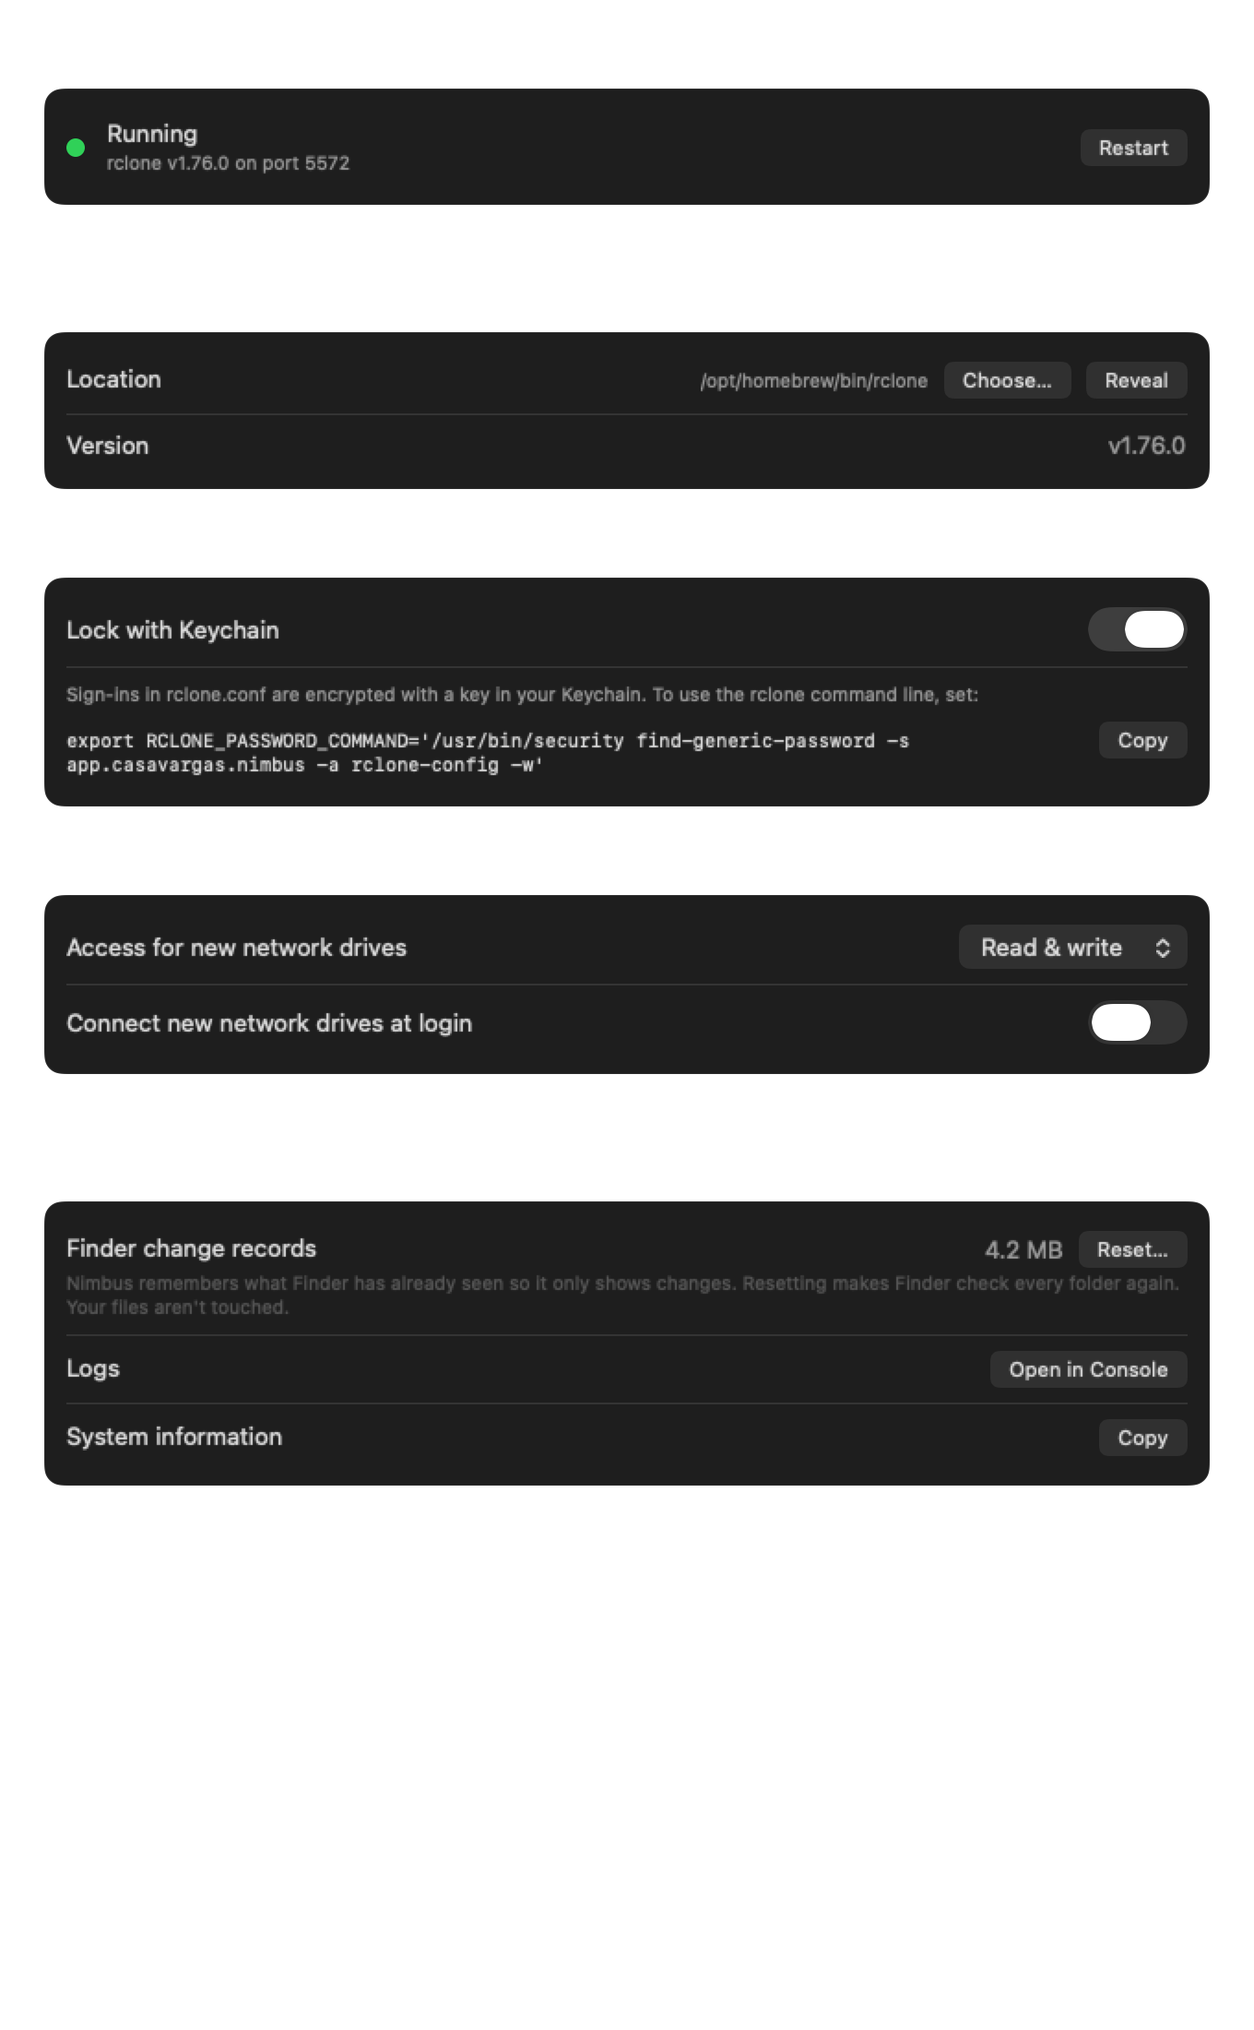
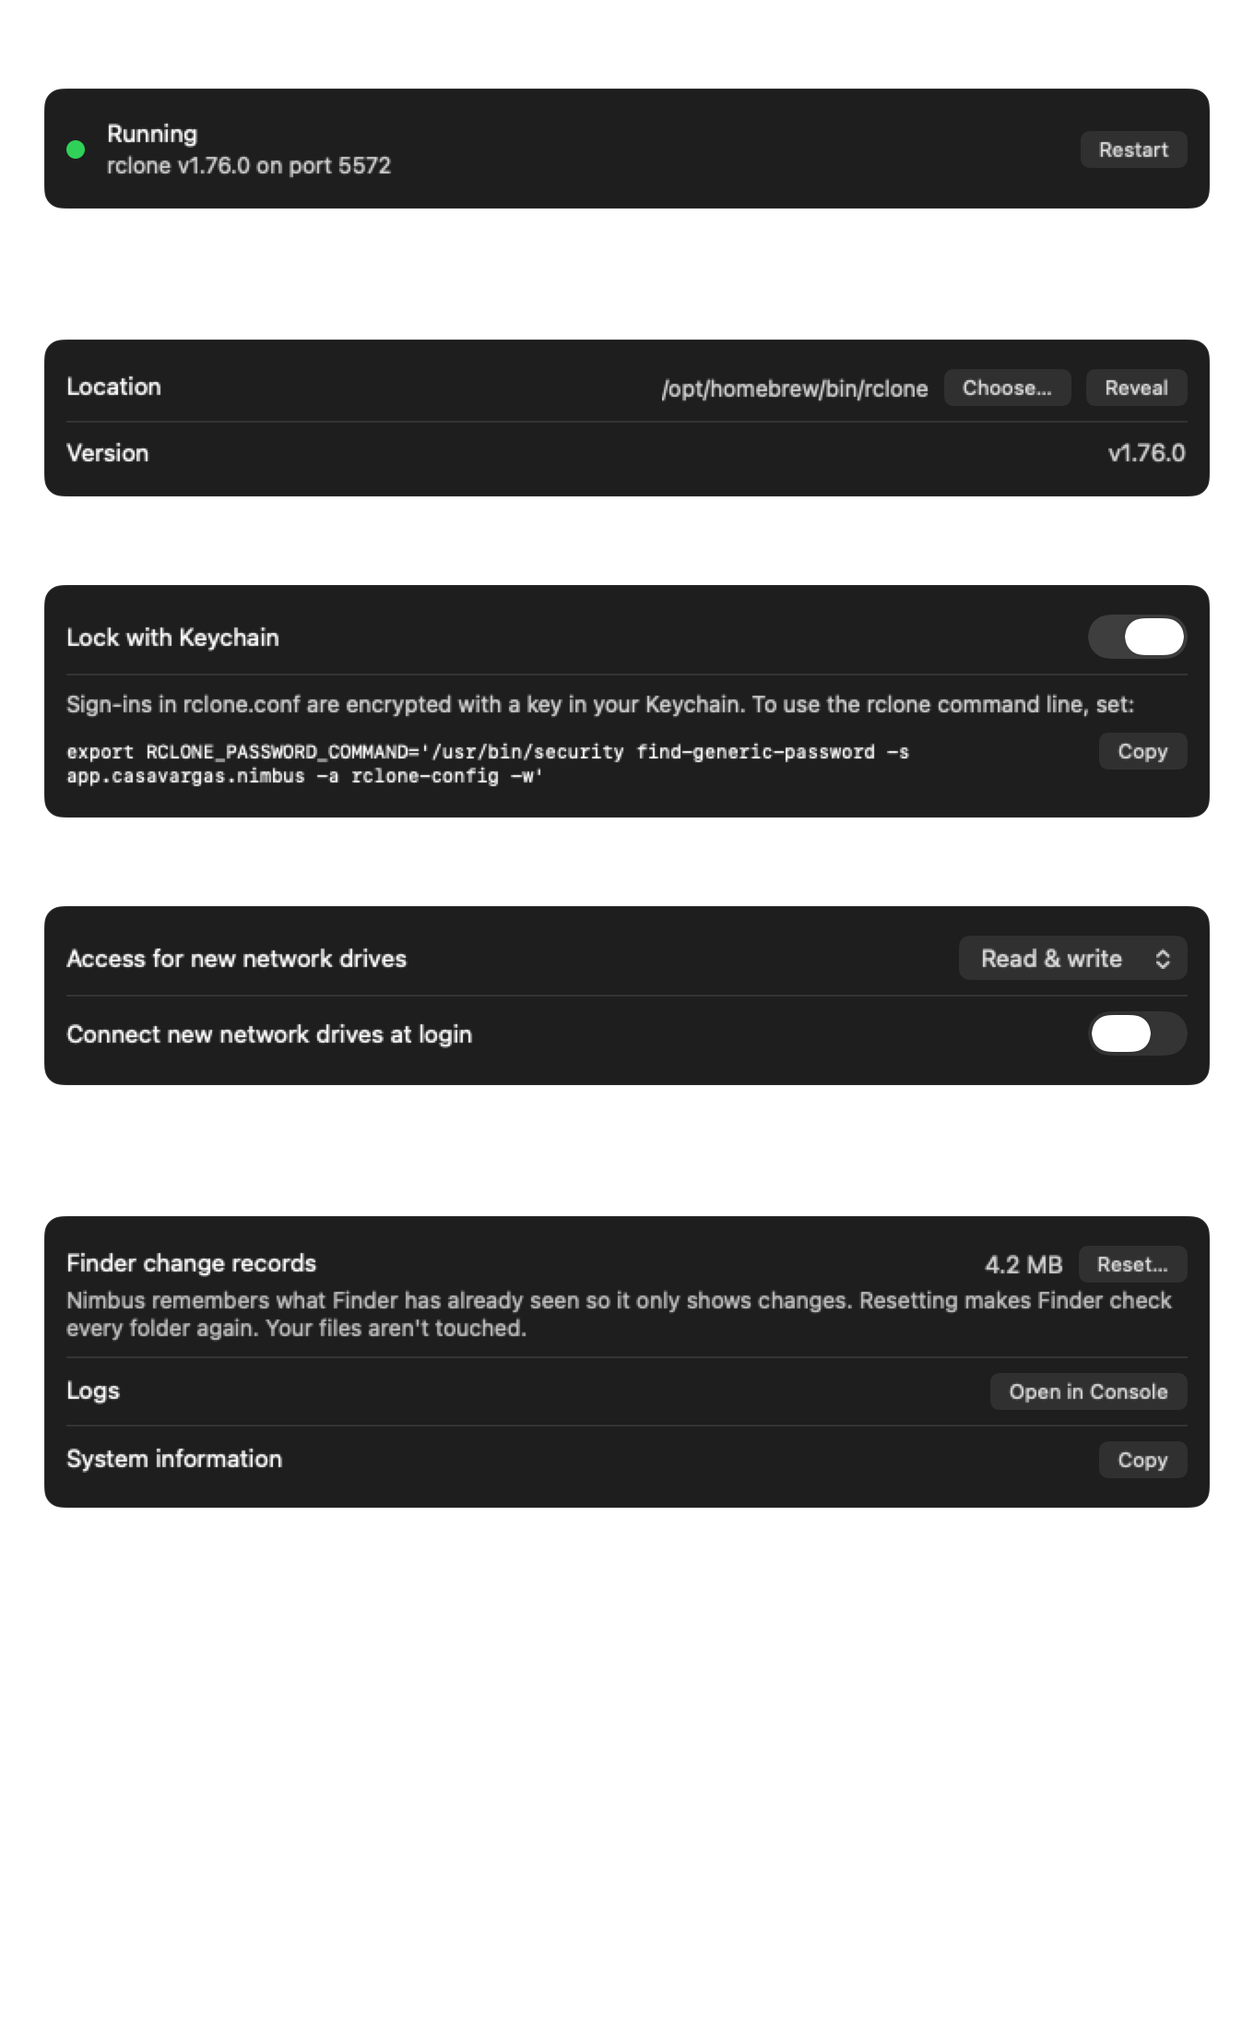
fix(settings): make Settings readable on the Stratosphere background
Descriptions under each setting used the system's tertiary label colour
(25% white) at 10pt on the theme's blue: about 1.9:1 contrast, where
small text needs 4.5:1. Footers and notes used the secondary label (55%).

Settings and the shared form rows now use the theme's own text colours
(80% and 72% white, 5.9:1 and 5.1:1) through a new themeText style, and
descriptions go from 10pt to 12pt.

diff --git a/Nimbus/Nimbus/Views/Settings/AdvancedSettingsView.swift b/Nimbus/Nimbus/Views/Settings/AdvancedSettingsView.swift
@@ -185,8 +185,8 @@ private struct RcloneSettingsSection: View {
             FormRow(label: "Location", help: nil) {
                 HStack(spacing: DesignSystem.Spacing.s) {
                     Text(verbatim: binaryPath)
-                        .font(DesignSystem.Typography.caption)
-                        .foregroundStyle(DesignSystem.Color.semantic.textSecondary)
+                        .font(DesignSystem.Stratosphere.Typography.detail)
+                        .foregroundStyle(.themeText(.secondary))
                         .lineLimit(1)
                         .truncationMode(.middle)
                         .textSelection(.enabled)
@@ -200,7 +200,7 @@ private struct RcloneSettingsSection: View {
             FormRow(label: "Version", help: nil) {
                 Text(verbatim: version)
                     .font(DesignSystem.Typography.body)
-                    .foregroundStyle(DesignSystem.Color.semantic.textSecondary)
+                    .foregroundStyle(.themeText(.secondary))
                     .accessibilityLabel("rclone version \(version)")
             }
             if let update {
@@ -227,8 +227,8 @@ struct RcloneUpdateRow: View {
                 }
                 if let status {
                     Text(verbatim: status)
-                        .font(DesignSystem.Typography.caption)
-                        .foregroundStyle(DesignSystem.Color.semantic.textSecondary)
+                        .font(DesignSystem.Stratosphere.Typography.detail)
+                        .foregroundStyle(.themeText(.secondary))
                         .lineLimit(2)
                         .multilineTextAlignment(.trailing)
                 }
@@ -274,12 +274,13 @@ private struct DaemonSettingsSection: View {
                 VStack(alignment: .leading, spacing: 2) {
                     Text(verbatim: headline)
                         .font(DesignSystem.Typography.body)
-                        .foregroundStyle(DesignSystem.Color.semantic.textPrimary)
+                        .foregroundStyle(.themeText(.primary))
                         .lineLimit(2)
                     Text(verbatim: detail)
-                        .font(DesignSystem.Typography.caption)
-                        .foregroundStyle(restartRequired ? DesignSystem.Color.semantic.statusWarning
-                                                         : DesignSystem.Color.semantic.textSecondary)
+                        .font(DesignSystem.Stratosphere.Typography.detail)
+                        .foregroundStyle(restartRequired
+                            ? AnyShapeStyle(DesignSystem.Color.semantic.statusWarning)
+                            : AnyShapeStyle(.themeText(.secondary)))
                         .lineLimit(2)
                 }
                 Spacer(minLength: DesignSystem.Spacing.m)
@@ -364,14 +365,14 @@ private struct SavedSignInsSection: View {
             }
             VStack(alignment: .leading, spacing: DesignSystem.Spacing.s) {
                 Text(verbatim: explanation)
-                    .font(DesignSystem.Typography.caption)
-                    .foregroundStyle(DesignSystem.Color.semantic.textSecondary)
+                    .font(DesignSystem.Stratosphere.Typography.detail)
+                    .foregroundStyle(.themeText(.secondary))
                     .fixedSize(horizontal: false, vertical: true)
                 if model.isLocked {
                     HStack(alignment: .firstTextBaseline, spacing: DesignSystem.Spacing.s) {
                         Text(verbatim: model.password.exportLine)
                             .font(.system(.caption, design: .monospaced))
-                            .foregroundStyle(DesignSystem.Color.semantic.textPrimary)
+                            .foregroundStyle(.themeText(.primary))
                             .textSelection(.enabled)
                             .fixedSize(horizontal: false, vertical: true)
                         Spacer(minLength: 0)
@@ -382,7 +383,7 @@ private struct SavedSignInsSection: View {
                 }
                 if let note {
                     Text(verbatim: note.text)
-                        .font(DesignSystem.Typography.caption)
+                        .font(DesignSystem.Stratosphere.Typography.detail)
                         .foregroundStyle(note.isError ? DesignSystem.Color.semantic.statusError
                                                       : DesignSystem.Color.semantic.statusWarning)
                         .fixedSize(horizontal: false, vertical: true)
@@ -477,8 +478,8 @@ private struct DiagnosticsSettingsSection: View {
                 }
                 if let message {
                     Text(verbatim: message)
-                        .font(DesignSystem.Typography.caption)
-                        .foregroundStyle(DesignSystem.Color.semantic.textSecondary)
+                        .font(DesignSystem.Stratosphere.Typography.detail)
+                        .foregroundStyle(.themeText(.secondary))
                         .frame(maxWidth: .infinity, alignment: .trailing)
                         .accessibilityLabel(message)
                 }

diff --git a/Nimbus/Nimbus/Views/Settings/AboutSettingsView.swift b/Nimbus/Nimbus/Views/Settings/AboutSettingsView.swift
@@ -44,12 +44,12 @@ struct AboutSettingsSection: View {
                     Text("Nimbus")
                         .font(DesignSystem.Typography.headline)
                     Text(versionLine)
-                        .font(DesignSystem.Typography.caption)
-                        .foregroundStyle(DesignSystem.Color.semantic.textSecondary)
+                        .font(DesignSystem.Stratosphere.Typography.detail)
+                        .foregroundStyle(.themeText(.secondary))
                         .textSelection(.enabled)
                     Text("© 2026 CasaVargas LLC")
-                        .font(DesignSystem.Typography.caption)
-                        .foregroundStyle(DesignSystem.Color.semantic.textTertiary)
+                        .font(DesignSystem.Stratosphere.Typography.detail)
+                        .foregroundStyle(.themeText(.tertiary))
                 }
                 Spacer()
             }
@@ -60,9 +60,9 @@ struct AboutSettingsSection: View {
                 Link("License", destination: URL(string: "https://github.com/CasaVargas/Nimbus/blob/main/LICENSE")!)
                 Spacer()
                 Link("Built on rclone", destination: URL(string: "https://rclone.org/")!)
-                    .foregroundStyle(DesignSystem.Color.semantic.textSecondary)
+                    .foregroundStyle(.themeText(.secondary))
             }
-            .font(DesignSystem.Typography.caption)
+            .font(DesignSystem.Stratosphere.Typography.detail)
             .padding(.vertical, DesignSystem.Spacing.xs)
         }
     }
@@ -129,15 +129,15 @@ struct StudioAppCard: View {
                     .accessibilityHidden(true)
                 Text(verbatim: app.name)
                     .font(DesignSystem.Typography.titleEmphasized)
-                    .foregroundStyle(DesignSystem.Color.semantic.textPrimary)
+                    .foregroundStyle(.themeText(.primary))
             }
             Text(verbatim: app.tagline)
                 .font(DesignSystem.Typography.body)
-                .foregroundStyle(DesignSystem.Color.semantic.textPrimary)
+                .foregroundStyle(.themeText(.primary))
                 .fixedSize(horizontal: false, vertical: true)
             Text(verbatim: app.model)
                 .font(DesignSystem.Typography.callout)
-                .foregroundStyle(DesignSystem.Color.semantic.textSecondary)
+                .foregroundStyle(.themeText(.secondary))
             Spacer(minLength: 0)
             Button(app.buttonTitle) { openURL(app.url) }
                 .buttonStyle(.primaryPill(.small))

diff --git a/Nimbus/Nimbus/Views/Settings/TransferSettingsView.swift b/Nimbus/Nimbus/Views/Settings/TransferSettingsView.swift
@@ -354,9 +354,10 @@ private struct TransferPerformanceSection: View {
                             .accessibilityHint(Self.customHint)
                     }
                     Text(verbatim: Self.customHint)
-                        .font(DesignSystem.Typography.caption)
-                        .foregroundStyle(bandwidthInvalid ? DesignSystem.Color.semantic.statusError
-                                                          : DesignSystem.Color.semantic.textTertiary)
+                        .font(DesignSystem.Stratosphere.Typography.detail)
+                        .foregroundStyle(bandwidthInvalid
+                            ? AnyShapeStyle(DesignSystem.Color.semantic.statusError)
+                            : AnyShapeStyle(.themeText(.tertiary)))
                         .frame(maxWidth: .infinity, alignment: .trailing)
                 }
                 if let bandwidthRuntimeError {
@@ -368,7 +369,7 @@ private struct TransferPerformanceSection: View {
 
     private func runtimeError(_ message: String) -> some View {
         Text(verbatim: message)
-            .font(DesignSystem.Typography.caption)
+            .font(DesignSystem.Stratosphere.Typography.detail)
             .foregroundStyle(DesignSystem.Color.semantic.statusError)
             .accessibilityLabel("Transfer setting error: \(message)")
     }
@@ -449,7 +450,7 @@ private struct NotificationAuthorizationStatusRow: View {
                 Text("Asking for permission to notify…")
             } else if status == .denied {
                 Label("Notifications are off for Nimbus in System Settings", systemImage: "bell.slash")
-                    .foregroundStyle(DesignSystem.Color.semantic.textSecondary)
+                    .foregroundStyle(.themeText(.secondary))
                 Spacer()
                 Link("Turn On…", destination: notificationSettingsURL)
             } else if let error {
@@ -461,7 +462,7 @@ private struct NotificationAuthorizationStatusRow: View {
                 .foregroundStyle(DesignSystem.Color.semantic.statusError)
             }
         }
-        .font(DesignSystem.Typography.caption)
+        .font(DesignSystem.Stratosphere.Typography.detail)
         .padding(.vertical, DesignSystem.Spacing.xs)
     }
 

diff --git a/Nimbus/Nimbus/Components/FormSection.swift b/Nimbus/Nimbus/Components/FormSection.swift
@@ -18,7 +18,7 @@ struct FormSection<Content: View>: View {
             if let title {
                 Text(title)
                     .font(DesignSystem.Typography.headline)
-                    .foregroundStyle(DesignSystem.Color.semantic.textPrimary)
+                    .foregroundStyle(.themeText(.primary))
                     .padding(.leading, DesignSystem.Spacing.xs)
                     .accessibilityAddTraits(.isHeader)
             }
@@ -45,8 +45,8 @@ struct FormSection<Content: View>: View {
             )
             if let footer {
                 Text(footer)
-                    .font(DesignSystem.Typography.caption)
-                    .foregroundStyle(DesignSystem.Color.semantic.textSecondary)
+                    .font(DesignSystem.Stratosphere.Typography.detail)
+                    .foregroundStyle(.themeText(.secondary))
                     .padding(.leading, DesignSystem.Spacing.xs)
                     .fixedSize(horizontal: false, vertical: true)
             }
@@ -81,14 +81,14 @@ struct FormRow<Trailing: View>: View {
             HStack(alignment: .firstTextBaseline, spacing: DesignSystem.Spacing.m) {
                 Text(label)
                     .font(DesignSystem.Typography.body)
-                    .foregroundStyle(DesignSystem.Color.semantic.textPrimary)
+                    .foregroundStyle(.themeText(.primary))
                 Spacer()
                 trailing()
             }
             if let help {
                 Text(help)
-                    .font(DesignSystem.Typography.caption)
-                    .foregroundStyle(DesignSystem.Color.semantic.textTertiary)
+                    .font(DesignSystem.Stratosphere.Typography.detail)
+                    .foregroundStyle(.themeText(.tertiary))
             }
         }
         .padding(.vertical, DesignSystem.Spacing.xs)

diff --git a/Nimbus/Nimbus/Views/Settings/StorageSettingsView.swift b/Nimbus/Nimbus/Views/Settings/StorageSettingsView.swift
@@ -65,13 +65,13 @@ struct StorageSettingsView: View {
                 ProgressView().controlSize(.small)
                 Text("Measuring…")
                     .font(DesignSystem.Typography.body)
-                    .foregroundStyle(DesignSystem.Color.semantic.textSecondary)
+                    .foregroundStyle(.themeText(.secondary))
             }
             .padding(.vertical, DesignSystem.Spacing.xs)
         } else if model.drives.isEmpty {
             Text("No clouds are in Finder.")
                 .font(DesignSystem.Typography.body)
-                .foregroundStyle(DesignSystem.Color.semantic.textSecondary)
+                .foregroundStyle(.themeText(.secondary))
                 .padding(.vertical, DesignSystem.Spacing.xs)
         } else {
             FormRow(label: "All drives", help: nil) {
@@ -101,7 +101,7 @@ struct StorageSettingsView: View {
         Text(verbatim: bytes == 0 ? String(localized: "None") : ByteCountFormatter.string(fromByteCount: bytes, countStyle: .file))
             .font(DesignSystem.Typography.body)
             .monospacedDigit()
-            .foregroundStyle(DesignSystem.Color.semantic.textSecondary)
+            .foregroundStyle(.themeText(.secondary))
     }
 }
 
@@ -121,7 +121,7 @@ private struct DriveRow: View {
                      : ByteCountFormatter.string(fromByteCount: drive.bytes, countStyle: .file))
                     .font(DesignSystem.Typography.body)
                     .monospacedDigit()
-                    .foregroundStyle(DesignSystem.Color.semantic.textSecondary)
+                    .foregroundStyle(.themeText(.secondary))
                 Button("Remove Downloads…", action: remove)
                     .controlSize(.small)
                     .disabled(drive.fileCount == 0 || isRemoving)

diff --git a/Nimbus/Nimbus/Views/Settings/GeneralSettingsView.swift b/Nimbus/Nimbus/Views/Settings/GeneralSettingsView.swift
@@ -38,7 +38,7 @@ private struct ApplicationSettingsSection: View {
                 }
                 if let error = launchAtLogin.lastError {
                     Text(verbatim: error)
-                        .font(DesignSystem.Typography.caption)
+                        .font(DesignSystem.Stratosphere.Typography.detail)
                         .foregroundStyle(DesignSystem.Color.semantic.statusError)
                         .accessibilityLabel("Open at Login error: \(error)")
                 }
@@ -97,15 +97,15 @@ private struct RunBackupsWhenClosedRow: View {
             if backgroundBackups.needsApproval {
                 HStack(spacing: DesignSystem.Spacing.s) {
                     Text("Allow Nimbus in Login Items so backups can run while it's closed.")
-                        .font(DesignSystem.Typography.caption)
-                        .foregroundStyle(DesignSystem.Color.semantic.textSecondary)
+                        .font(DesignSystem.Stratosphere.Typography.detail)
+                        .foregroundStyle(.themeText(.secondary))
                     Button("Open Login Items") { backgroundBackups.openLoginItems() }
                         .controlSize(.small)
                 }
             }
             if let error = backgroundBackups.lastError {
                 Text(verbatim: error)
-                    .font(DesignSystem.Typography.caption)
+                    .font(DesignSystem.Stratosphere.Typography.detail)
                     .foregroundStyle(DesignSystem.Color.semantic.statusError)
                     .accessibilityLabel("\(OpenAtLoginNote.runsWhenClosedLabel) error: \(error)")
             }

diff --git a/Nimbus/Nimbus/DesignSystem/Stratosphere/StratosphereTextStyle.swift b/Nimbus/Nimbus/DesignSystem/Stratosphere/StratosphereTextStyle.swift
@@ -1,0 +1,32 @@
+import SwiftUI
+
+extension DesignSystem.Stratosphere {
+    /// The theme's text colours as a style, so a view can ask for them
+    /// without reading the palette from the environment itself.
+    ///
+    /// Use these on Stratosphere surfaces instead of the system label
+    /// colours. The system's secondary and tertiary labels are 55% and 25%
+    /// white in dark mode, tuned for a near-black window; on the theme's
+    /// blue they measure 3.7:1 and 1.9:1, well under the 4.5:1 that small
+    /// text needs. The theme's own are 80% and 72% (5.9:1 and 5.1:1).
+    struct TextStyle: ShapeStyle {
+        enum Level: Sendable { case primary, secondary, tertiary }
+        let level: Level
+
+        func resolve(in environment: EnvironmentValues) -> SwiftUI.Color {
+            let palette = environment.stratosphere
+            return switch level {
+            case .primary: palette.textPrimary.color
+            case .secondary: palette.textSecondary.color
+            case .tertiary: palette.textTertiary.color
+            }
+        }
+    }
+}
+
+extension ShapeStyle where Self == DesignSystem.Stratosphere.TextStyle {
+    /// The Stratosphere text colour for the current appearance.
+    static func themeText(_ level: DesignSystem.Stratosphere.TextStyle.Level) -> Self {
+        .init(level: level)
+    }
+}

diff --git a/Nimbus/Nimbus/Views/Settings/StorageUsageView.swift b/Nimbus/Nimbus/Views/Settings/StorageUsageView.swift
@@ -190,7 +190,7 @@ struct FinderChangeRecordsRow: View {
         case .available(let bytes):
             Text(verbatim: bytes == 0 ? "Empty" : ByteCountFormatter.string(fromByteCount: bytes, countStyle: .file))
                 .font(DesignSystem.Typography.body)
-                .foregroundStyle(DesignSystem.Color.semantic.textSecondary)
+                .foregroundStyle(.themeText(.secondary))
         case .failed(let error):
             Label {
                 Text(verbatim: error)
@@ -198,7 +198,7 @@ struct FinderChangeRecordsRow: View {
             } icon: {
                 Image(systemName: "exclamationmark.triangle.fill")
             }
-            .font(DesignSystem.Typography.caption)
+            .font(DesignSystem.Stratosphere.Typography.detail)
             .foregroundStyle(DesignSystem.Color.semantic.statusError)
             .frame(maxWidth: 240, alignment: .trailing)
             .accessibilityLabel("Finder change records unavailable: \(error)")
